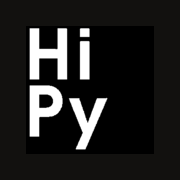
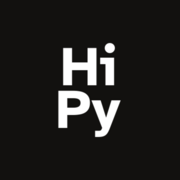
Refine HiPy branding and mobile layout

Changed region(s): [[0.1389, 0.1389, 0.6944, 0.8333]]

diff --git a/src/styles/global.css b/src/styles/global.css
@@ -3,4 +3,6 @@
 @media(max-width:850px){.hero{grid-template-columns:1fr;padding-top:75px}.code-window{width:90%;margin:25px auto 0}.about{grid-template-columns:1fr;padding:100px 0}.about-copy{padding:0}.event-card{grid-template-columns:80px 1fr}.event-meta{grid-column:2}.event-button{grid-column:2;width:max-content}.resource-grid{grid-template-columns:1fr}.section-heading{align-items:start;flex-direction:column}.sticker-two{left:-25px}.ticker div{text-align:left}}
 @media(max-width:560px){body{font-size:16px}.section-shell{width:min(100% - 28px,1180px)}.hero{min-height:auto;padding:60px 0 90px}.hero-actions{align-items:flex-start;flex-direction:column}.code-window{width:calc(100% - 18px)}.code-window pre{font-size:11px;padding:25px 18px 36px}.sticker-one{width:88px;height:88px;right:-15px;bottom:-50px}.principles{grid-template-columns:1fr}.principles div{display:flex;align-items:center;gap:20px}.events,.resources{padding:90px 0}.event-card{gap:20px}.event-info h3{font-size:1.45rem}.event-info p{font-size:.9rem}.event-date span{font-size:2.7rem}.resource-card{min-height:350px;padding:25px}.cta{padding:90px 0 110px}}
 h1,h2{letter-spacing:-.035em;line-height:.9}h1 em,h2 em{letter-spacing:-.025em}
-@media(prefers-reduced-motion:reduce){html{scroll-behavior:auto}*{transition:none!important}}
+.ticker .ticker-track{display:flex;width:max-content;text-align:left;animation:ticker-scroll 24s linear infinite;will-change:transform}.ticker .ticker-track span{flex:none}.ticker .ticker-track b{display:inline-block}@keyframes ticker-scroll{to{transform:translateX(-50%)}}
+@media(max-width:560px){.code-window{width:calc(100% - 30px);transform:rotate(1deg);box-shadow:6px 6px 0 var(--violet)}.sticker-two{left:2px;top:-46px}.sticker-one{right:0;bottom:-42px}.event-card{grid-template-columns:64px minmax(0,1fr)}.event-info,.event-meta{min-width:0}.event-info h3,.event-info p,.event-meta p{overflow-wrap:anywhere}.event-button{max-width:100%;white-space:normal}.resource-card{width:calc(100% - 8px)}.cta .button{max-width:100%}}
+@media(prefers-reduced-motion:reduce){html{scroll-behavior:auto}*{transition:none!important}.ticker .ticker-track{animation:none}}

diff --git a/README.md b/README.md
@@ -9,7 +9,7 @@ The public website for HiPy, a grassroots coding community based at the Universi
 - **Resource activities:** Write the activities in [`src/pages/resources/personal-website-with-ai.md`](src/pages/resources/personal-website-with-ai.md) and [`src/pages/resources/analyse-data-with-ai.md`](src/pages/resources/analyse-data-with-ai.md). Keep the existing frontmatter at the top of each file.
 - **Colours and styling:** Edit [`src/styles/global.css`](src/styles/global.css). The core colour palette is defined as custom properties at the beginning of the file.
 - **Site title and description:** Edit [`src/consts.ts`](src/consts.ts). These values are used for browser and sharing metadata.
-- **Logo and icons:** The original artwork is stored at [`public/hipy-logo.png`](public/hipy-logo.png). Derived favicon and Apple touch icon files live alongside it in `public/`.
+- **Logo and icons:** The stacked HiPy wordmark is stored at [`public/hipy-logo.png`](public/hipy-logo.png). Derived favicon and Apple touch icon files live alongside it in `public/`.
 
 The events currently included in `events.json` are illustrative placeholders. Replace their dates, descriptions, locations, and Eventbrite URLs before launch.
 

diff --git a/AGENTS.md b/AGENTS.md
@@ -14,7 +14,7 @@ This Astro site is the public homepage for HiPy, a grassroots coding community b
 
 ## Design
 
-- Preserve the original HiPy logo in `public/hipy-logo.png` and use it consistently.
+- Preserve the stacked Atkinson Bold HiPy wordmark in `public/hipy-logo.png` and use it consistently.
 - Retain the warm cream, near-black, lime, coral, and violet visual system.
 - Maintain keyboard accessibility, visible focus states, semantic headings, and responsive layouts.
 - Prefer lightweight Astro and CSS solutions over adding client-side frameworks or dependencies.
